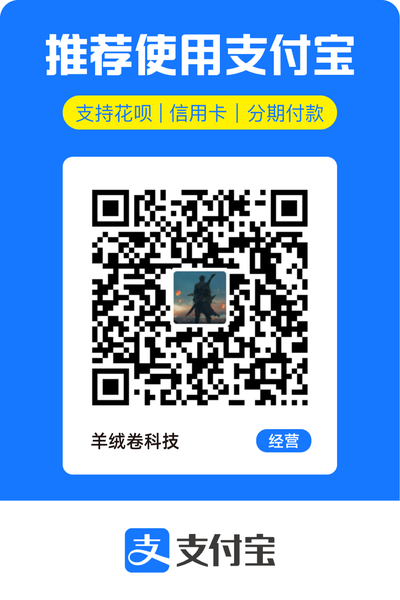
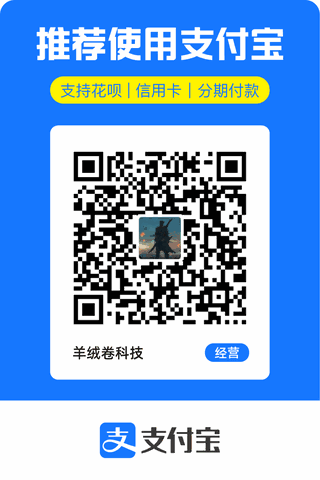
docs: 赞赏二维码再缩小（320x480 / 13KB）
400x600 / 71KB → 320x480 / 13KB：96 色调色板量化 + PNG 优化，
LANCZOS 等比缩小、白底合成。OpenCV 验证二维码仍可解码；
README 展示宽度 260 → 200，点击仍可看大图。

diff --git a/README.en.md b/README.en.md
@@ -89,7 +89,7 @@ FeedLore is a self-hosted open source project. Sponsorship is entirely voluntary
 **unlocks no features** — the app stays fully functional either way. If it saves you
 a subscription fee, you can scan the QR code below (Alipay):
 
-<a href="docs/screenshots/sponsor-alipay.png"><img src="docs/screenshots/sponsor-alipay.png" width="260" alt="Alipay QR code for sponsorship" /></a>
+<a href="docs/screenshots/sponsor-alipay.png"><img src="docs/screenshots/sponsor-alipay.png" width="200" alt="Alipay QR code for sponsorship" /></a>
 
 *Alipay QR code · click to enlarge*
 

diff --git a/README.md b/README.md
@@ -101,7 +101,7 @@ pnpm -r test
 笺川是持续维护的开源自托管项目，赞赏完全自愿，**不解锁任何功能、不影响正常使用**。
 如果它帮你省下了订阅服务的钱，可以扫码请作者喝杯咖啡：
 
-<a href="docs/screenshots/sponsor-alipay.png"><img src="docs/screenshots/sponsor-alipay.png" width="260" alt="支付宝赞赏二维码" /></a>
+<a href="docs/screenshots/sponsor-alipay.png"><img src="docs/screenshots/sponsor-alipay.png" width="200" alt="支付宝赞赏二维码" /></a>
 
 *支付宝赞赏码 · 点击图片查看大图*
 
